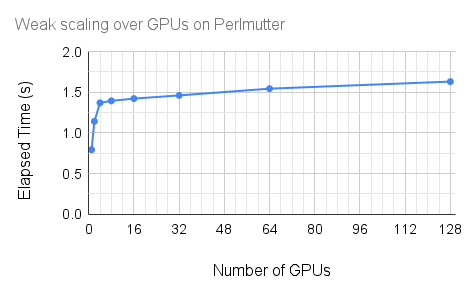
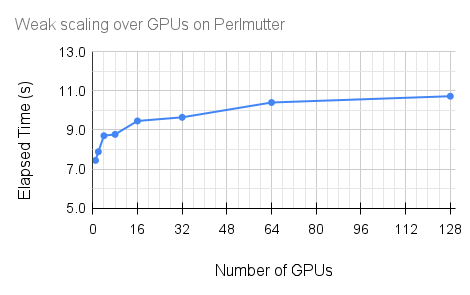
Documentation updates (#1118)
* added moisture setting

* Fixed a bug in MOSTaverage.cpp, moved OpenMP directive just before MFiter loop.

* corrected default ABL makefile to not enable OpenMP

* FABs declared before MFiter loop moved inside to correct "out of bounds" errors.

* removed statement causing buffer overflow

* re-add line

* committing submodule change from last merge

* commit submodule update

* commit submodule amrex update

* submodule updated

* fix OMP directive placement

* submod update

* set up TinyProfiler to track Evolve() and InitData()

* Add Performance page under TESTING

This is to add the GPU scaling results from Perlmutter

* added GPU scaling plot

* Create Performance.rst to add GPU weak scaling

* added the weak scaling setup information

* Update Performance.rst

* submodule update

* submod update

* submod update

* submod update

* include GPU-aware MPI information for running on Perlmutter and update performance plot

* correction

* minor changes

---------

diff --git a/Docs/sphinx_doc/building.rst b/Docs/sphinx_doc/building.rst
@@ -219,13 +219,22 @@ Finally, you can prepare your SLURM job script, using the following as a guide:
 
              ## we use the same number of MPI ranks per node as GPUs per node
              #SBATCH --ntasks-per-node=4
+             #SBATCH --gpus-per-node=4
+             #SBATCH --gpu-bind=none
 
-             ## assign 1 MPI rank per GPU on each node
-             #SBATCH --gpus-per-task=1
-             #SBATCH --gpu-bind=map_gpu:0,1,2,3
+             # pin to closest NIC to GPU
+             export MPICH_OFI_NIC_POLICY=GPU
+
+             # use GPU-aware MPI
+             #GPU_AWARE_MPI=""
+             GPU_AWARE_MPI="amrex.use_gpu_aware_mpi=1"
 
              # the -n argument is (--ntasks-per-node) * (-N) = (number of MPI ranks per node) * (number of nodes)
-             srun -n 8 ./ERF3d.gnu.MPI.CUDA.ex inputs_wrf_baseline max_step=100
+             # set ordering of CUDA visible devices inverse to local task IDs for optimal GPU-aware MPI
+             srun -n 8 --cpus-per-task=32 --cpu-bind=cores bash -c "
+               export CUDA_VISIBLE_DEVICES=\$((3-SLURM_LOCALID));
+               ./ERF3d.gnu.MPI.CUDA.ex inputs_wrf_baseline max_step=100 ${GPU_AWARE_MPI}" \
+             > test.out
 
 To submit your job script, do `sbatch [your job script]` and you can check its status by doing `squeue -u [your username]`.
 

diff --git a/Docs/sphinx_doc/Performance.rst b/Docs/sphinx_doc/Performance.rst
@@ -7,8 +7,8 @@ GPU weak scaling
 ================
 
 The plot shows weak scaling of the ABL application with the Smagorinsky LES model using A100 GPUs on the Perlmutter system at NERSC.
-The domain size is **amr.n_cell = 32 32 128** for a **single GPU**; this is progressively scaled up to **512 256 128** for **128 GPUs**.
-This test uses all 4 GPUs per node and runs 100 time steps.
+The domain size is **amr.n_cell = 128 128 512** for a **single GPU**; this is progressively scaled up to **2048 1024 512** for **128 GPUs**.
+This test uses all 4 GPUs per node with GPU-aware MPI communication and runs 100 time steps.
 
 The times shown includes both initialization and time evolution. All I/O and diagnostic calculations are turned off.
 
